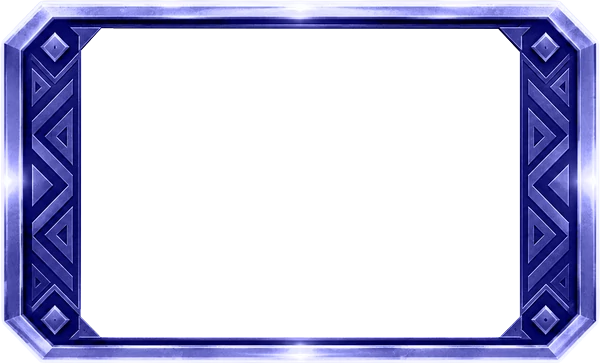
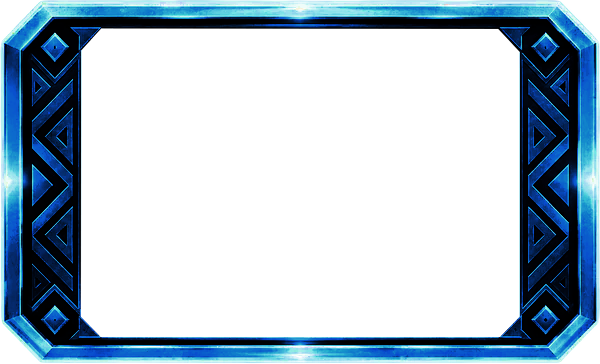
The blue Gate frame recoloured to match; the timer keeps its gold over the warning
The lit blue Gate frame is the designer's new colour-matched export. Lock In's
timer bar no longer tints red with the warning: the red is the button's, and
the time left reads plain gold on top of it.

Claude-Session: https://claude.ai/code/session_01CdCWBBELLp3cWMWqqhgQtC

diff --git a/src/ui/theme.css b/src/ui/theme.css
@@ -2209,8 +2209,8 @@ body.board-shake .battlefield { animation: board-shake 0.32s cubic-bezier(0.36, 
   border-image-source: var(--kit-timer-fill) !important; border-image-slice: 0 46 fill !important; border-image-repeat: stretch !important;
   transition: width 0.9s linear, filter 0.4s;
 }
-.lock-btn.warn .timer-bar b { filter: hue-rotate(-18deg) saturate(1.25); }
-.lock-btn.low .timer-bar b, .lock-btn.crit .timer-bar b { filter: hue-rotate(-52deg) saturate(1.5) brightness(0.92); }
+/* The bar keeps its gold over the warning: the red is the button's, the time left reads plain on top of it. */
+.lock-btn .timer-bar { z-index: 2; }
 /* Sit Down: the small red piece. */
 .actions-left .danger {
   --kh: clamp(40px, 4.4vw, 56px);
